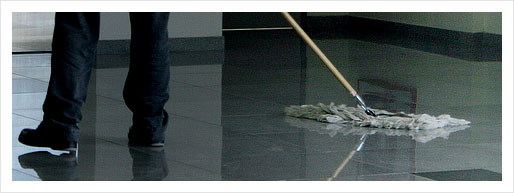
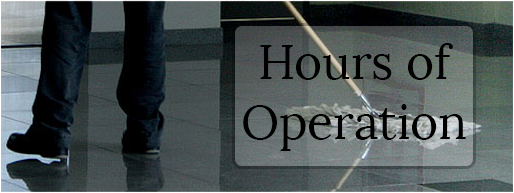
updated all files

diff --git a/homecleaning.html b/homecleaning.html
@@ -26,7 +26,7 @@
 		</head>
 		<body>
 		
-		<div id="webwrapper">
+		<div id="webwrapperbushome">
 		
 			<div id="logo">
 					<a href="default.html"><img src="cloudlogo.png" class="cloudlogo"/></a>
@@ -41,21 +41,29 @@
 				<div class="col1">
 					<h4>Home Cleaning</h4>
 					<img class="colimg" src="home1.jpg" />
-					<p> To busy to clean your own house? Got kids who just don't know how to clean up after themselves? Have no fear Icloud Cleaning Services can take care of you messes for you. Got some dusty surfaces to clean? We can handle that for you. We can also clean those dishes you don't want to clean. After that is all done we'll clean your entire kitchen. We can also handle your bathroom. From the toilet to the shower, we can make your bathroom look like is never been used. We'll also handle all bedrooms and living rooms. We can dust the room, make the bed and change your linens. We will also be sweeping and mopping the living room and dusting all the furniture within it. At the end of our services your house will be left looking just like new. We also give extra services upon request. These services include: inside fridge cleaning, inside oven cleaning, inside cabinets cleaning, interior window cleaning, and laundry wash and dry. </p>
+					<p> We offer a variety of home cleaning services. We work around your schedule to provide the best quality service. </p>
+							<ul>
+								<li>Clean under furniture.
+								<li>Dust and wipe blinds and window ledges.			
+								<li>Make bed/change linens.
+								<li>Empty all trash.
+								<li>Clean and put away dishes.
+								<li>Disinfect sinks,toilets,and bathtubs.
+								<li>Clean ovens and refrigerators.
+								<li>Mop all types of floors including dry wood floors.</li>
+								<li>Wipe down mirrors and exterior cabinets</li>
+					
+								</ul>
 					<p>For contact information <a href="contactinfo.html"> Click here.</a></p>
 				</div>
 
 				<div class="rsidebar">
 					<a href="contactinfo.html"><h4> Hours Of Operation </h4></a>
 					<img class="colimg" src="cleaningteam.jpg" />
-					<p> Monday: 9am to 5pm </p>
-					<p> Tuesday: 9am to 5pm </p>
-					<p> Wednesday: 9am to 5pm </p>
-					<p> Thursday: 9am to 5pm </p>
-					<p> Friday: 9am to 5pm </p>
-					<p> Saturday: Closed </p>
-					<p> Sunday: Closed </p>
-					<div class="email">
+				<p> Office Hours</p>
+						  <p> Mondays to Fridays: 9am to 5pm </p>
+						  <p> Cleaning Services are 7 days a week </p>         
+						<div class="email">
 					<h4>Email: info@icloudcleaning.com</h4>
 					</div>
 				</div>

diff --git a/businesscleaning.html b/businesscleaning.html
@@ -23,7 +23,7 @@
 
 		</head>
 		<body>
-			<div id="webwrapper">
+			<div id="webwrapperbushome">
 				<div id="banner">
 				<img src="corporate2.jpg" class="bannerimg"/>
 			</div>
@@ -36,20 +36,25 @@
 				<div class="col1">
 					<h4>Business Cleaning</h4>
 						<img class="colimg" src="business 1.jpg" />
-					<p> Here at Icloud Cleaning Services we take care all of your office cleaning needs. We handle everything from lobbies to restrooms. Got an elevator that needs cleaning we've got your solution. Our group also takes care of any trash related needs of your business. From emptying waste baskets to transporting trash to that smelly dumpster that no one wants to be around. We also take care of small scale maintenance. This includes sweeping scrubbing floors, and dusting furniture and equipment. It also includes replacing light bulbs, Washing windows, and handling repair requests. We also prepare your office for meetings so that you don't have to. With Icloud Cleaning Services, your work area will not only be up to standard, it will be so clean you won't want to hire another cleaning service! We also offer extra services upon request including: Cleaning interior and exterior front doors, vacuuming all carpeted areas, sweeping and mopping hard surfaces, and vacuuming all hard surfaces. </p>
+					<p> We clean offices, rooms, hallways, lobbies, restrooms, elevators, and all other work areas. </p>
+							<ul>
+								<li>We clean lobbies,Conference rooms,Storage rooms,Break rooms.
+								<li>Wipe down tables and chairs.
+								<li>Removing dirt from carpets using high-powered vacuums.
+								<li>Removing garbage and debris.
+								<li>Polished furniture.
+								<li>Dusting window sills and desk.
+								<li>Proper removal of dust and careful treatment to blinds and mini blinds.
+							</ul>
 					<p> For contact information <a href="contactinfo.html"> Click here.</a></p>
 				</div>
 
 				<div class="rsidebar">
 					  <a href="contactinfo.html"><h4> Hours Of Operation </h4></a>
 					  <img class="colimg" src="cleaningteam.jpg" />
-						  <p> Monday: 9am to 5pm </p>
-						  <p> Tuesday: 9am to 5pm </p>
-						  <p> Wednesday: 9am to 5pm </p>
-						  <p> Thursday: 9am to 5pm </p>
-						  <p> Friday: 9am to 5pm </p>
-						  <p> Saturday: Closed </p>
-						  <p> Sunday: Closed </p>
+						 <p> Office Hours</p>
+						  <p> Mondays to Fridays: 9am to 5pm </p>
+						  <p> Cleaning Services are 7 days a week </p>         
 						  <div class="email">
 						  <h4>Email: info@icloudcleaning.com</h4>
 						  </div>

diff --git a/style.css b/style.css
@@ -82,7 +82,12 @@ height:1040px;
 margin:auto;
 background-color: #fff;
 }
-
+#webwrapperbushome{
+width:1040px;
+height:1140px;
+margin:auto;
+background-color: #fff;
+}
 .bannerimg{
 height:500px;
 width:100%;
@@ -232,7 +237,7 @@ color:white;}
 #BusinessHome{
 position:relative;
 top:10px;
-height:510px;
+height:630px;
 width: 1040px;
 }
 
